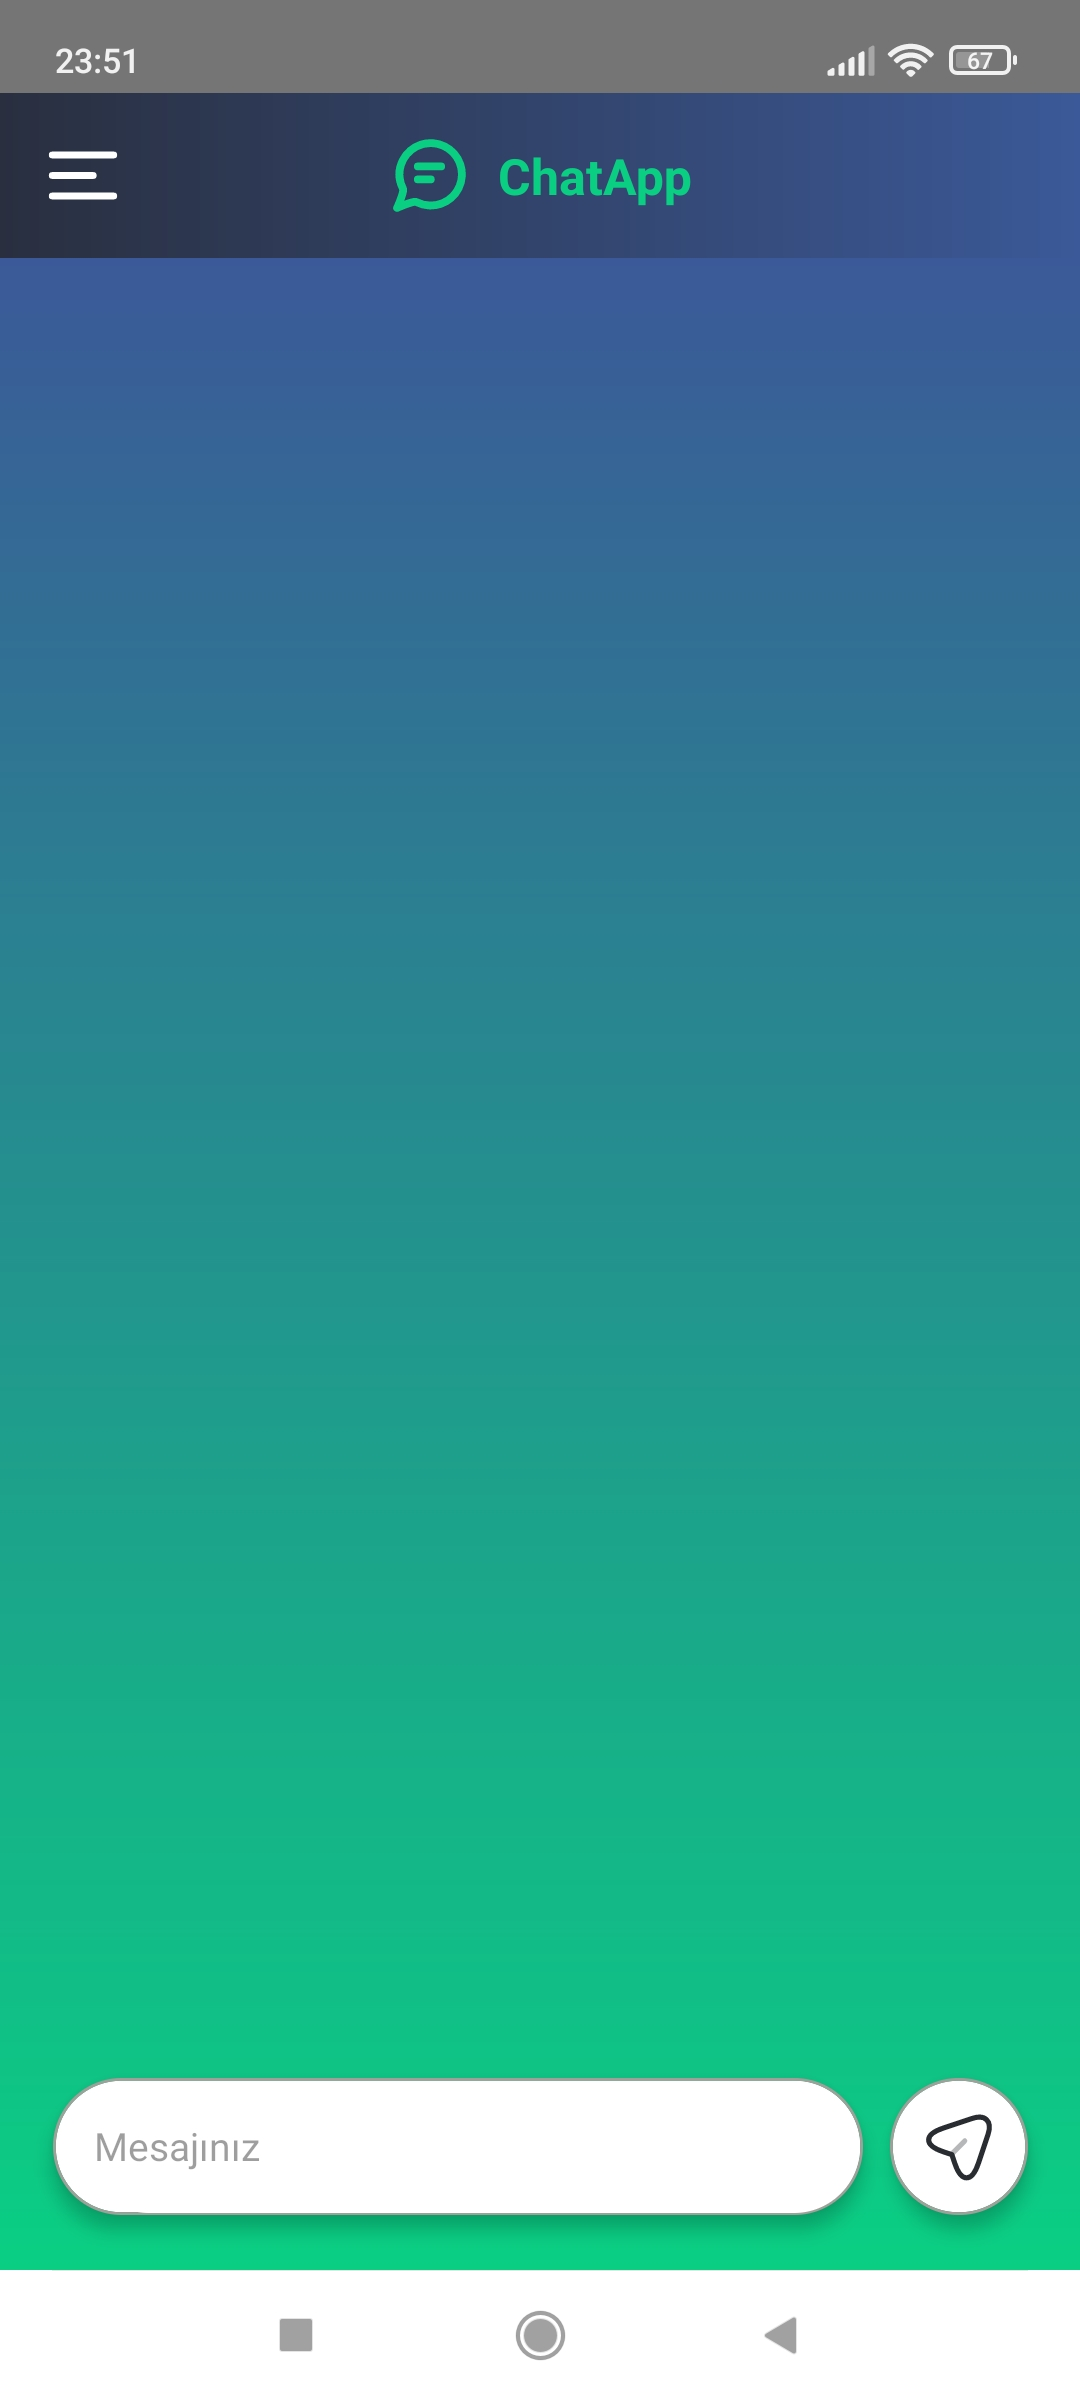
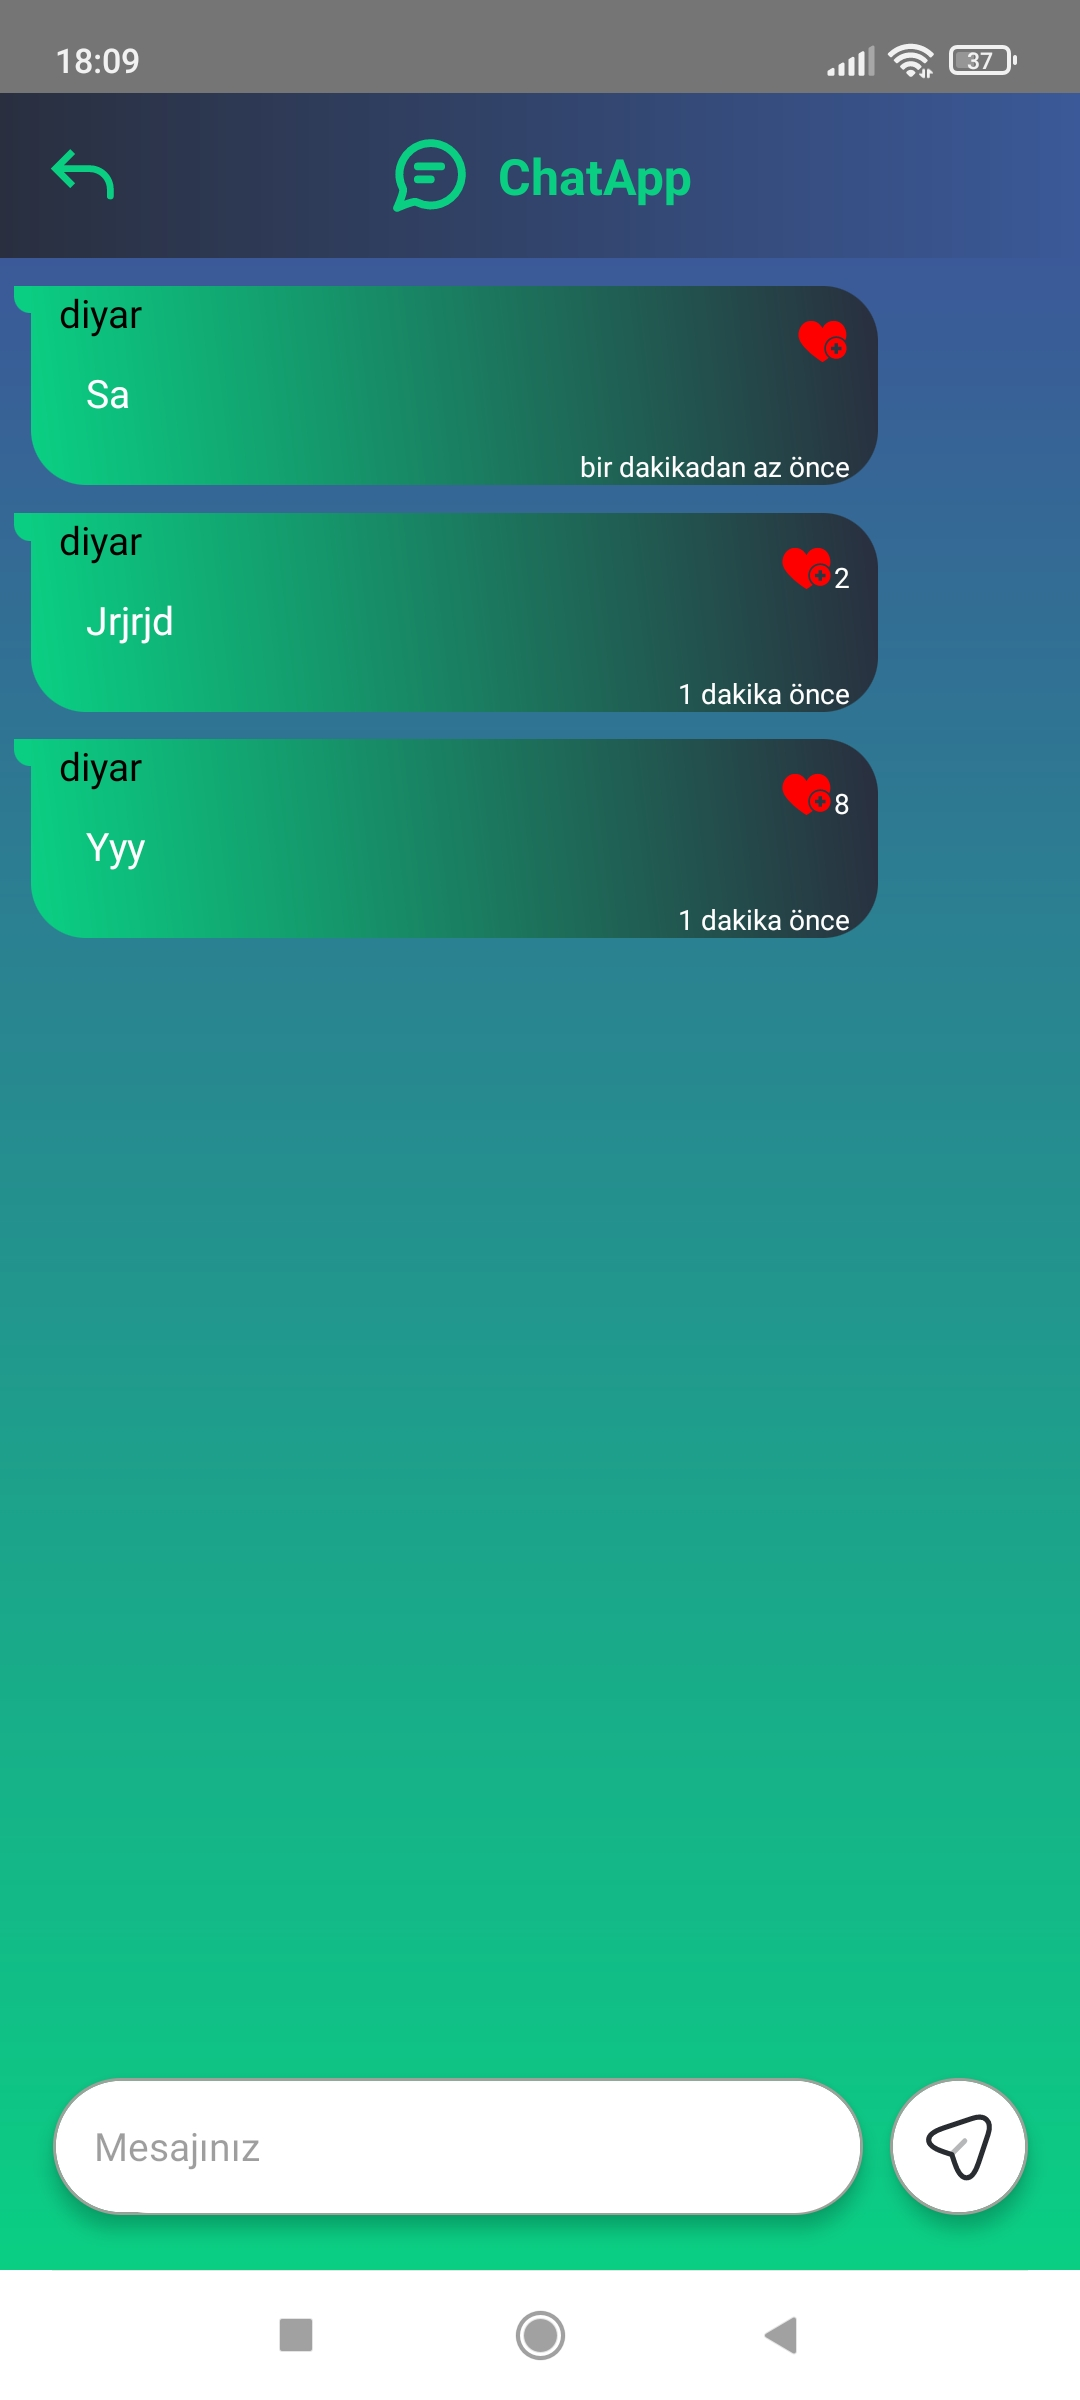
MessageCard add heart

Changed region(s): [[0.0, 0.0625, 0.825, 0.4062], [0.0917, 0.0, 0.1222, 0.0312]]

diff --git a/src/components/CustomMessageCard/CustomMessageCard.tsx b/src/components/CustomMessageCard/CustomMessageCard.tsx
@@ -1,40 +1,30 @@
-import { View, Text,StyleSheet } from 'react-native'
+import { View, Text,StyleSheet,TouchableOpacity } from 'react-native'
 import React,{useState} from 'react'
 import LinearGradient from 'react-native-linear-gradient'
 import Colors from '../../styles/Colors'
 import {  formatDistance, parseISO, subDays } from 'date-fns'
 import {tr} from 'date-fns/locale'
+import Heart from '../../assets/heart.svg'
 
-const CustomMessageCard = ({message}) => {
+const CustomMessageCard = ({message,onPress}) => {
 
-  // let setTimeZone
-
-  // console.log(message.date)
-  // if(message.date.length <0){
-  //   console.log('sa')
-  //   setTimeZone ="2023-01-29T11:03:00.780Z"
-  // }else{
-  //   setTimeZone =message.date
-  // }
-
-  const formatedDate = formatDistance(parseISO(message.date), new Date(), { addSuffix: true,locale:tr })
+const formatedDate = formatDistance(parseISO(message.date), new Date(), { addSuffix: true,locale:tr })
   
-
-  // moment(message.date).startOf('hour').fromNow() 
-
   return (
    <View   style={styles.container}>
-
      <View style={styles.left}/>
-
     <LinearGradient start={{x: 0, y: 0.75}} end={{x: 1, y: 0.25}} 
      colors={[Colors.defaultGreenColor,Colors.defaultDarkColor ]} style={{  flex:1 ,borderTopRightRadius:20,borderBottomLeftRadius:20,borderBottomRightRadius:20}} >
-      <Text style={{color:'black',marginLeft:10}} >{message.username}</Text>
-      <Text style={{color:'white',marginLeft:10,padding:10}} >{message.text}</Text>
-      <View>
 
-      </View>
+        <Text style={{color:'black',marginLeft:10}} >{message.username}</Text>
+        <Text style={{color:'white',marginLeft:10,padding:10}} >{message.text}</Text>
       <Text style={{color:'white',alignSelf:'flex-end',marginRight:10,fontSize:10}} >{formatedDate}</Text>
+
+      <TouchableOpacity style={{position:'absolute',right:10,top:10,flexDirection:'row'}} onPress={onPress} >
+        <Heart width={20} height={20} color={'red'} />
+      {message.like > 0 &&  <Text style={{alignSelf:'flex-end',color:'white',fontSize:10}} >{message.like}</Text>}
+      </TouchableOpacity>
+      
     </LinearGradient>
 
    </View>

diff --git a/src/pages/HomeScreen/HomeScreen.tsx b/src/pages/HomeScreen/HomeScreen.tsx
@@ -10,28 +10,31 @@ import Colors from '../../styles/Colors';
 const HomeScreen = ({navigation}) => {
   const DATA = [
     {
-      id: 'bd7acbea-c1b1-46c2-aed5-3ad53abb28ba',
+      id: '1bd7acbea-c1b1-46c2-aed5-3ad53abb28ba',
       title: 'First Item',
+      url:'https://raw.githubusercontent.com/DiyarYelbaka/ChatApp/main/src/assets/carousel/snap1.png'
     },
     {
-      id: '3ac68afc-c605-48d3-a4f8-fbd91aa97f63',
+      id: '23ac68afc-c605-48d3-a4f8-fbd91aa97f63',
       title: 'Second Item',
+      url:'https://raw.githubusercontent.com/DiyarYelbaka/ChatApp/main/src/assets/carousel/snap2.png'
     },
     {
-      id: '58694a0f-3da1-471f-bd96-145571e29d72',
+      id: '458694a0f-3da1-471f-bd96-145571e29d72',
       title: 'Third Item',
+      url:'https://raw.githubusercontent.com/DiyarYelbaka/ChatApp/main/src/assets/carousel/snap4.png'
     },
   ];
 
-   const _renderItem = ({item, index}) => {
+   const _renderItem = ({item}) => {
     return (
-        <View style={{height:200,marginTop:20,borderRadius:20}} >
+      <LinearGradient style={{height:200,marginTop:20,borderRadius:20,elevation:15}}  colors={[  '#3b5998',Colors.defaultGreenColor ]} >
           <Image
           style={{height:200,width:'100%'}}
-          source={require('../../assets/carousel/snap2.png')}
+          source={{uri :item.url} }
           resizeMode={'contain'}
          />
-        </View>
+        </LinearGradient>
     );
 }
 
@@ -49,9 +52,12 @@ const HomeScreen = ({navigation}) => {
               autoplay={true}
               autoplayDelay={5}
               loop={true}
-             
       />
       <Text>HomeScasdreen</Text>
+
+        {/* <View style={{backgroundColor:'red',width:100,height:100}}>
+        <Text>ask</Text>
+       </View> */}
       </LinearGradient>
     </ScrollView>
     </>

diff --git a/src/pages/MessageScreen/MessageScreen.tsx b/src/pages/MessageScreen/MessageScreen.tsx
@@ -48,7 +48,7 @@ const MessageScreen = ({ navigation }) => {
   return (
     <>
       <CustomHeaderTop onPress={() => navigation.openDrawer()} />
-      <LinearGradient colors={[Colors.defaultDarkColor, '#3b5998',]} style={styles.container}>
+      <LinearGradient colors={['#3b5998',Colors.defaultGreenColor, ]} style={styles.container}>
       <View style={{marginTop:30}} />
       <FlatList
         data={DATA}
@@ -68,7 +68,8 @@ const MessageScreen = ({ navigation }) => {
        onBackButtonPress={toggleModal}
        onBackdropPress={toggleModal}
        >
-        <LinearGradient colors={[Colors.defaultGreenColor, '#3b5998',]} style={styles.modalContainer}>
+        
+        <LinearGradient colors={['#3b5998',Colors.defaultGreenColor, ]} style={styles.modalContainer}>
           <View style={styles.modalInputContainer} >
           <TextInput
             placeholder='Oda İsmi'
@@ -130,7 +131,7 @@ const styles = StyleSheet.create({
     borderTopRightRadius:50,
     borderBottomLeftRadius:50,
     elevation:10,
-    borderWidth:2,
+    borderWidth:1,
     borderColor:Colors.defaultDarkColor,
     justifyContent:'center',
     alignItems:'center',

diff --git a/src/pages/InMessageScreen/InMessageScreen.tsx b/src/pages/InMessageScreen/InMessageScreen.tsx
@@ -33,12 +33,17 @@ const InMessageScreen = ({navigation}) => {
 
   function sendContent(){
 
+    if(value==''){
+      return;
+    }
+
     const userMail = auth().currentUser?.email
 
     const contentObject = {
       text:value,
       username:userMail?.split('@')[0],
-      date: new Date().toISOString()
+      date: new Date().toISOString(),
+      like:0
     }
     
     firebase.app().database("https://chatapp-9bb02-default-rtdb.europe-west1.firebasedatabase.app/").ref('messages/').push(contentObject)
@@ -46,7 +51,11 @@ const InMessageScreen = ({navigation}) => {
     setValue('')
   }
 
-  const renderContent= ({item}) =>  <CustomMessageCard message={item} /> 
+  function onHandleHeart(item){
+    firebase.app().database("https://chatapp-9bb02-default-rtdb.europe-west1.firebasedatabase.app/").ref(`messages/${item.id}/`).update({like:item.like+1})
+  }
+
+  const renderContent= ({item}) =>  <CustomMessageCard message={item} onPress={()=>onHandleHeart(item)} /> 
 
   console.log(contentList)
 

diff --git a/src/components/CustomInput/CustomInput.tsx b/src/components/CustomInput/CustomInput.tsx
@@ -38,6 +38,7 @@ const CustomInput: React.FC<Props> = ({ title, placeholder, visiblePassword = fa
             onChangeText={onChange} 
             onBlur={onBlur} 
             secureTextEntry={secureTextEntry}
+           
             />
           </View>
           {error && <Text style={styles.error}>{error.message ||'Error'}</Text>}

diff --git a/src/Router.js b/src/Router.js
@@ -36,8 +36,10 @@ const Router = () => {
   return (
     <NavigationContainer>
      <Stack.Navigator
+     
      screenOptions={{
-      headerShown:false
+      headerShown:false,
+     
      }}
      >
       {
